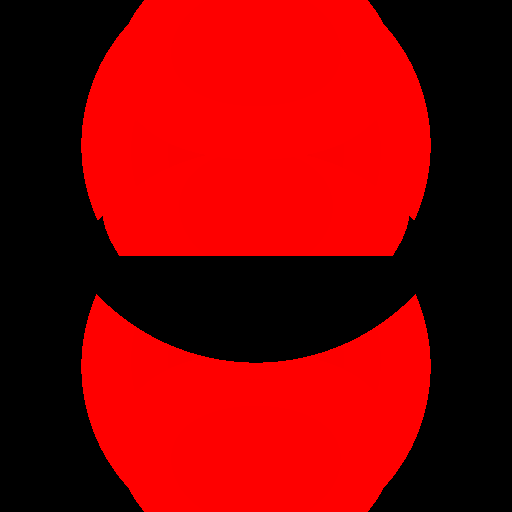
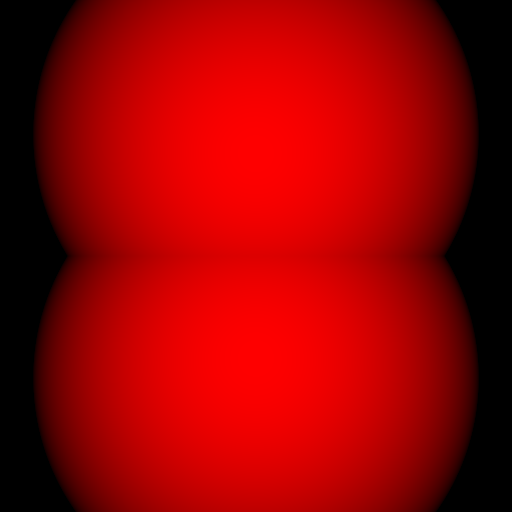
debugged diffuse lighting

diff --git a/src/raytracer/mod.rs b/src/raytracer/mod.rs
@@ -44,7 +44,7 @@ impl Stray
             // using with_capacity?
             spheres: Vec::<(Sphere, u32)>::new(),
             materials: Vec::<(Material, u32)>::new(),
-            tracing_depth: 5,
+            tracing_depth: 1,
         }
     }
     pub fn set_window_dimensions(&mut self, width: u32, height: u32)
@@ -106,39 +106,67 @@ impl Stray
 
         for _bounce_index in 1..self.tracing_depth + 1
         {
+            //NOTE(staneesh): this should be in a struct 'hit_record' or sth? 
+            let mut min_dist_sq_to_sphere = 100000.0;
+            let mut closest_sphere = Option::<Sphere>::None;
+            let mut closest_hit_point = Option::<Vec3>::None;
+            let mut closest_mat_index = Option::<u32>::None;
+
             for (_index, (test_sphere, mat_index)) 
                 in self.spheres.iter().enumerate()
             {
                 if let Some(hit_sphere_point) = ray.hit_sphere(&test_sphere)
                 {
-                    let normal_to_sphere_surface = (hit_sphere_point - 
-                        test_sphere.position).normalize();
+                    let l_sq = (hit_sphere_point - ray.position).length_squared();
 
-                    let contrib = Vec3::dot(
-                        ray.direction.normalize(),
-                        normal_to_sphere_surface
-                            );
-
-                    let material_hit = 
-                        self.find_material_by_index(mat_index).unwrap();
-
-                    let diffuse_lighting = hadamard(&(contrib *  
-                        material_hit.diffuse_color), &ray_energy);    
-
-                    color = color + diffuse_lighting; 
-
-                    ray_energy = hadamard(&ray_energy, &diffuse_lighting);
-
-                    let prefect_reflection = ray.direction - 
-                        2.0*(contrib) * normal_to_sphere_surface;
-
-                    let new_dir = lerp::<Vec3>(
-                        random_in_unit_sphere(), prefect_reflection,
-                        material_hit.shininess);
-
-                    let new_ray = Ray::new(hit_sphere_point, new_dir);
-                    ray = new_ray;
+                    if l_sq < min_dist_sq_to_sphere
+                    {
+                        closest_sphere = Some(*test_sphere);
+                        min_dist_sq_to_sphere = l_sq;
+                        closest_hit_point = Some(hit_sphere_point); 
+                        closest_mat_index = Some(*mat_index);
+                    }
                 }
+            }
+            
+            if closest_sphere.is_some()
+            {
+                let test_sphere = closest_sphere.unwrap();
+                let hit_sphere_point = closest_hit_point.unwrap();
+                let mat_index = closest_mat_index.unwrap();
+
+                let normal_to_sphere_surface = (hit_sphere_point - 
+                    test_sphere.position).normalize();
+
+                let mut contrib =  Vec3::dot(
+                    normal_to_sphere_surface,
+                    -ray.direction.normalize()
+                        );
+
+                if contrib < 0.0
+                {
+                    contrib = 0.0;
+                }
+
+                let material_hit = 
+                    self.find_material_by_index(&mat_index).unwrap();
+
+                let diffuse_lighting = hadamard(&(contrib *  
+                    material_hit.diffuse_color), &ray_energy);    
+
+                //println!("{}",diffuse_lighting);
+                color = color + diffuse_lighting; 
+                ray_energy = hadamard(&ray_energy, &diffuse_lighting);
+
+                let prefect_reflection = ray.direction - 
+                    2.0*(contrib) * normal_to_sphere_surface;
+
+                let new_dir = lerp::<Vec3>(
+                    random_in_unit_sphere(), prefect_reflection,
+                    material_hit.shininess);
+
+                let new_ray = Ray::new(hit_sphere_point, new_dir);
+                ray = new_ray;
             }
         }
         
@@ -193,9 +221,9 @@ impl Stray
             let pixel_color =
                 self.ray_cast(&current_ray);
             let (color_x, color_y, color_z) = (
-                pixel_color.x() as u8,
-                pixel_color.y() as u8,
-                pixel_color.z() as u8 );
+                (pixel_color.x() * 255.0) as u8,
+                (pixel_color.y() * 255.0) as u8,
+                (pixel_color.z() * 255.0) as u8 );
 
             *pixel = image::Rgb([color_x, color_y, color_z]);
 

diff --git a/src/main.rs b/src/main.rs
@@ -4,7 +4,7 @@ fn main()
 {
     let mut stray = Stray::new();
 
-    stray.add_material(1.0, 0.0, 0.0, 1.0, 0).unwrap();
+    stray.add_material(1.0, 0.0, 0.0, 0.5, 0).unwrap();
     stray.add_sphere(0.0, -1.0, -5.0, 2.0, 0).unwrap();
     stray.add_sphere(0.0, 1.0, -5.0, 2.0, 0).unwrap();
 

diff --git a/src/raytracer/ray.rs b/src/raytracer/ray.rs
@@ -4,8 +4,7 @@ use super::geometry::sphere::Sphere;
 #[derive(Debug, Copy, Clone)]
 pub struct Ray
 {
-    position: Vec3,
-    // TODO(staneesh): should not be pub
+    pub position: Vec3,
     pub direction: Vec3,
 }
 
